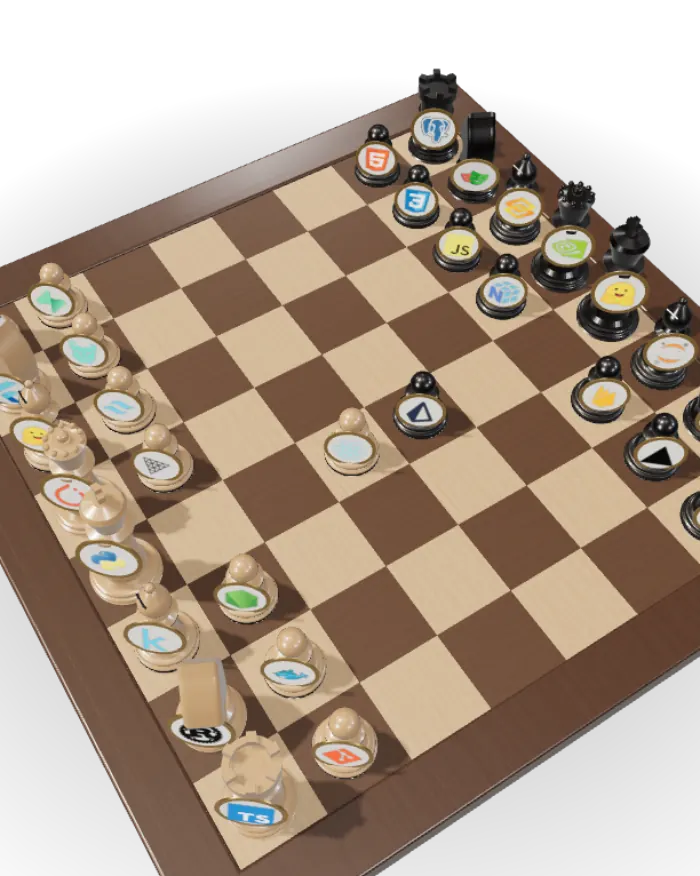
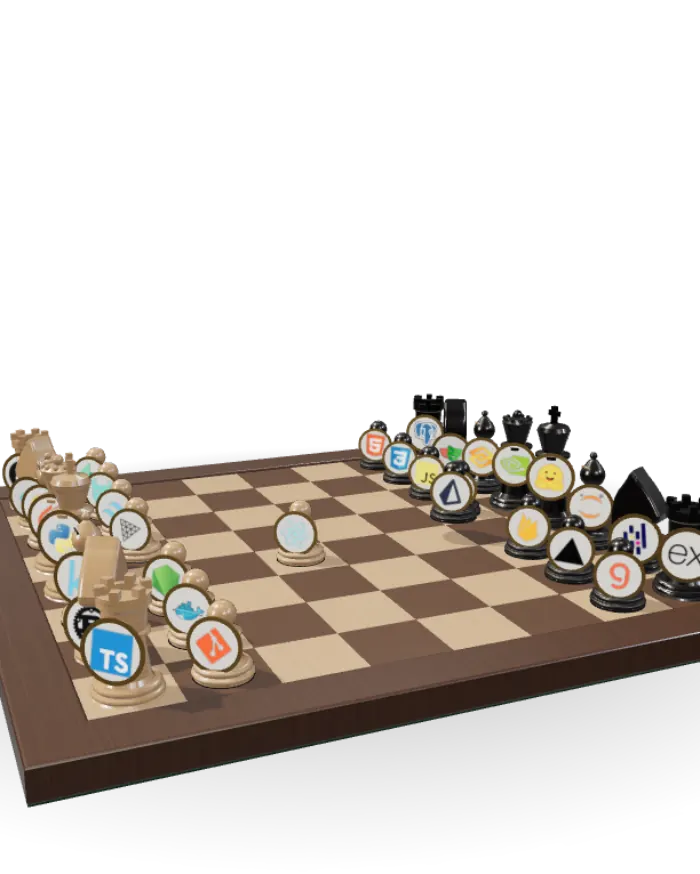
Chess: low, close view across the board; lifts while a piece is picked

diff --git a/components/three/chess/chessStage.ts b/components/three/chess/chessStage.ts
@@ -450,7 +450,8 @@ export function mountChess(el: HTMLElement, opts: { dark: boolean; onInfo: (i: P
 
   /* loop */
   let raf = 0, last = performance.now(), intro = 0, thud = 0, alive = true, started = false;
-  const look = new THREE.Vector3(0.3, 0, 0.4);
+  const look = new THREE.Vector3(0.3, 0, 0.4), lookS = new THREE.Vector3();
+  let lift = 0;
   function ready() {
     if (!alive) return;
     setup();
@@ -469,11 +470,14 @@ export function mountChess(el: HTMLElement, opts: { dark: boolean; onInfo: (i: P
     const e = 1 - Math.pow(1 - intro, 3);
     tiltS.lerp(tilt, 1 - Math.exp(-dt * 4));
     const t = now / 1000;
-    const dist = portrait ? 13.5 : 17.5;
-    const yaw = VIEW_YAW + (1 - e) * 0.7 + tiltS.x * 0.12 + Math.sin(t * 0.15) * 0.04;
-    const pitch = (portrait ? 0.95 : 0.7) + (1 - e) * -0.2 + tiltS.y * 0.05;
+    // low, close view across the board (pieces stand up against the page); lifts while a piece is picked so the moves are visible
+    lift += ((selected ? 1 : 0) - lift) * (1 - Math.exp(-dt * 3));
+    const dist = (portrait ? 15.5 : 13) + lift * 2;
+    const yaw = VIEW_YAW + 0.15 + (1 - e) * 0.5 + tiltS.x * 0.12 + Math.sin(t * 0.15) * 0.03;
+    const pitch = (portrait ? 0.3 : 0.22) + lift * 0.45 + (1 - e) * 0.15 + tiltS.y * 0.04;
     camera.position.set(Math.sin(yaw) * Math.cos(pitch) * dist, Math.sin(pitch) * dist, Math.cos(yaw) * Math.cos(pitch) * dist);
-    camera.lookAt(look);
+    lookS.set(look.x + 0.5, (portrait ? 1.7 : 0.8) * (1 - lift), look.z - 0.5);
+    camera.lookAt(lookS);
 
     for (let i = anims.length - 1; i >= 0; i--) {
       const a = anims[i];
